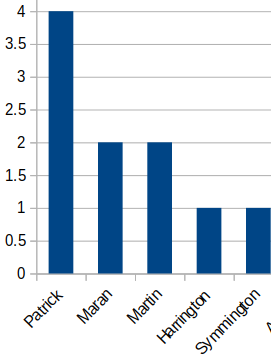
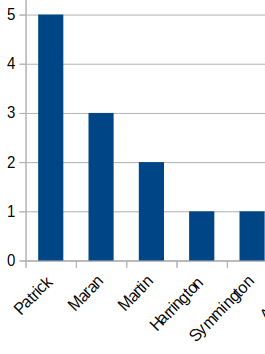
19th season - season update 9

Changed region(s): [[0.0, 0.0, 1.0, 0.9944], [0.966, 0.8701, 1.0, 0.9322], [0.9962, 0.6525, 1.0, 0.6836]]

diff --git a/index.html b/index.html
@@ -110,7 +110,7 @@
 		<div class="col-lg-5">
 			<br>
 			
-			Time in 1st (Best effort monitoring!) - as of Oct 16,2022<br>
+			Time in 1st (Best effort monitoring!) - as of Oct 19,2022<br>
 			<img src="./2022-timein1.png"><br>
 
 
